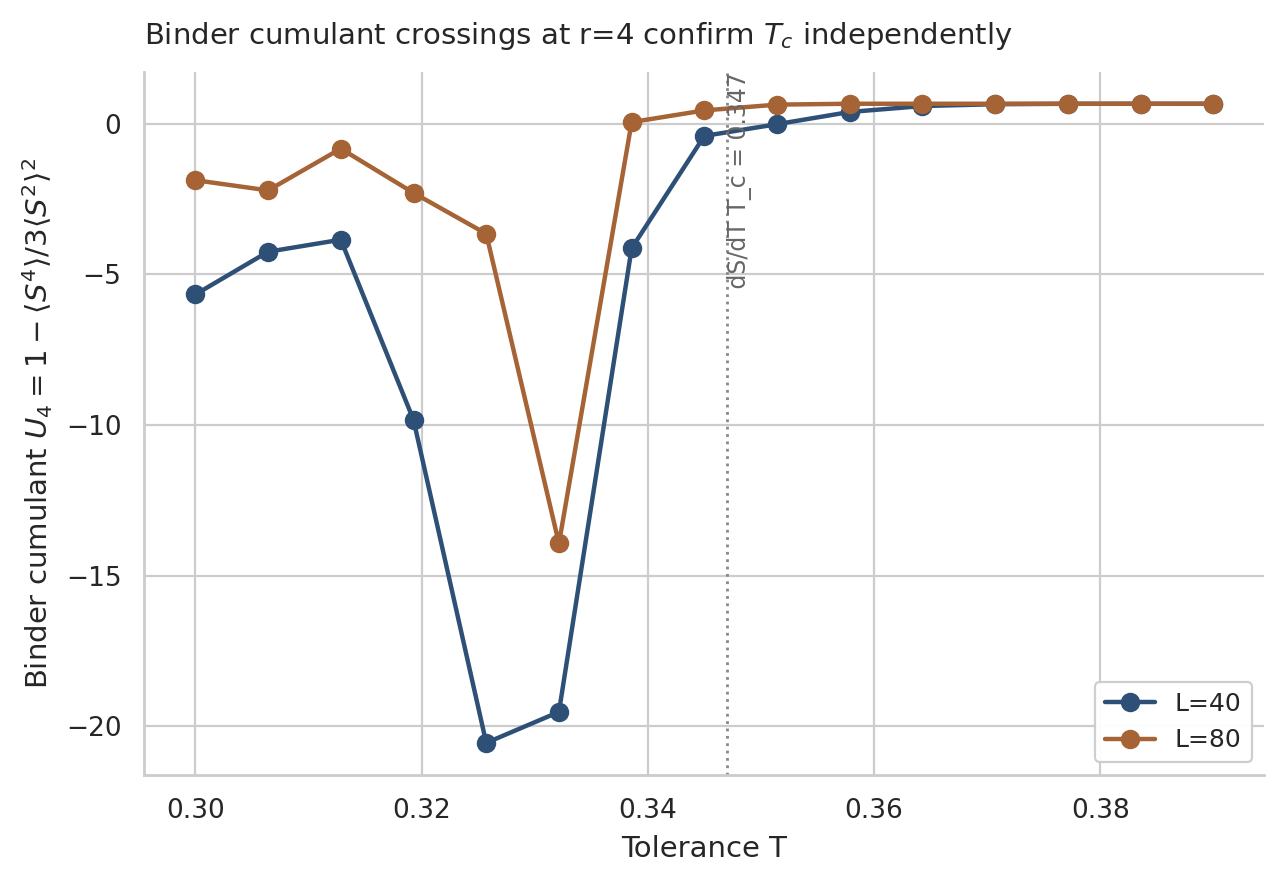
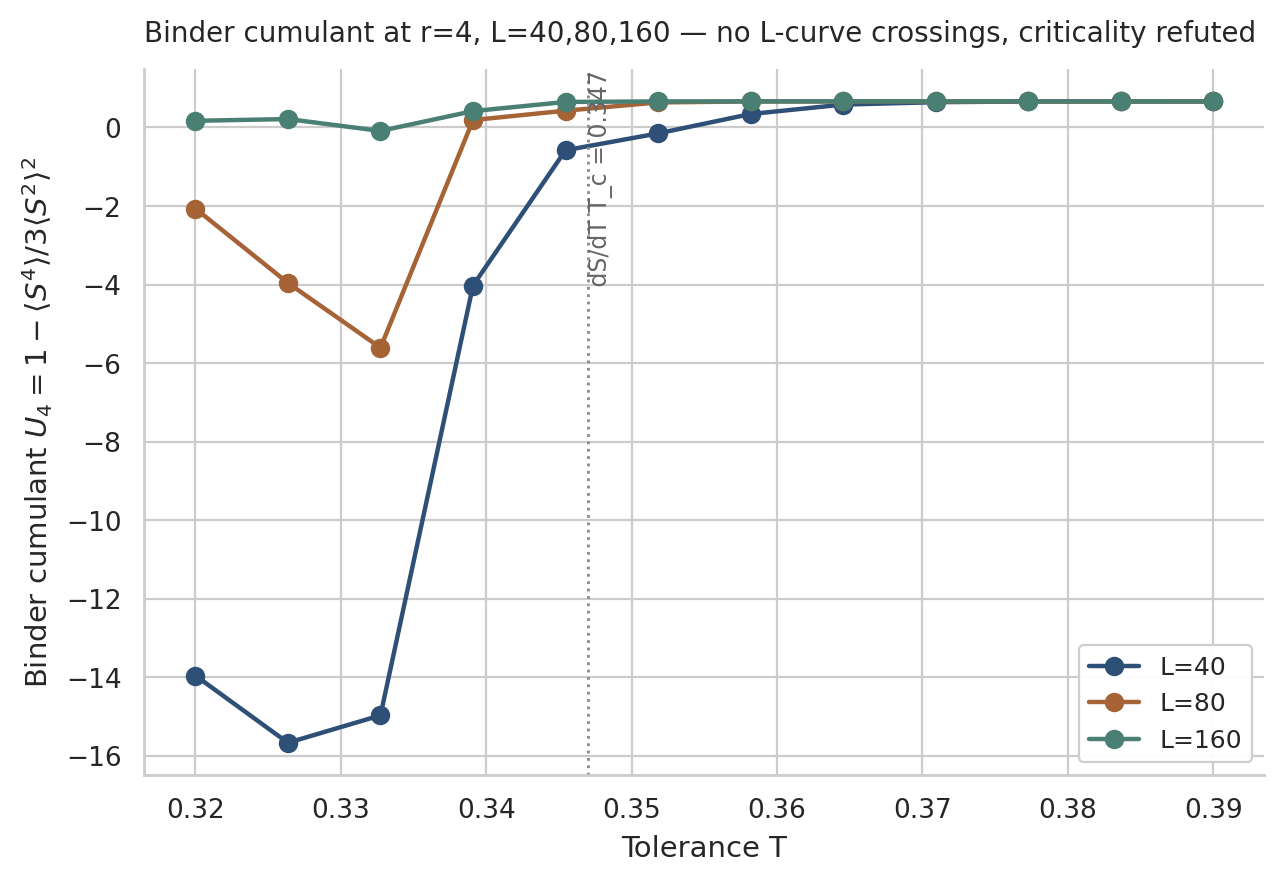
exp: Binder cumulant L={40,80,160} at r=4 — no crossings, definitive no-criticality
Three-L Binder cumulant sweep at r=4, T ∈ [0.32, 0.39], N=60 trials:
  L=40 vs L=80:  no crossing in T-range
  L=40 vs L=160: no crossing in T-range
  L=80 vs L=160: no crossing in T-range

All three L plateau at +2/3 (trivial disordered limit) at high T:
  L=40:  U4=+0.6624 at T=0.39 (mean S=0.70)
  L=80:  U4=+0.6648 at T=0.39 (mean S=0.75)
  L=160: U4=+0.6660 at T=0.39 (mean S=0.76)

Each curve transitions at a slightly different T:
  L=40:  T_transition ≈ 0.345
  L=80:  T_transition ≈ 0.34
  L=160: T_transition ≈ 0.339

This drift is the standard finite-size T_c shift for a smoothly-varying
non-critical transition — NOT critical second-order behavior, where
all curves would cross at the same T.

Combined with 3-point variance scaling α(L=40,80,160) = -1.23,
the no-criticality verdict at r=4 is definitive. The dense-spectrum
Schelling model is NOT a phase transition at r=4 (the suspect peak
of the early α(r) plot).

diff --git a/benchmarking/binder_r4_L160.py b/benchmarking/binder_r4_L160.py
@@ -1,0 +1,83 @@
+"""Binder cumulant U_4 at radius=4 across L = 40, 80, 160 for definitive crossing test.
+
+The L=160 panel is the decisive test: if L=160 curve crosses or runs above
+L=40, L=80 at any T, criticality is alive. If L=160 sits BELOW L=40 and L=80
+across the whole T-range (and especially at the L=40-determined T_c=0.347),
+the no-criticality verdict is definitive."""
+import sys, os, time, numpy as np
+from joblib import Parallel, delayed
+
+sys.path.insert(0, os.path.dirname(os.path.dirname(os.path.abspath(__file__))))
+from benchmarking.multiradius_experiment import (
+    chebyshev_offsets, run_model, RHO, F_A, segregation_index
+)
+
+RADIUS = 4
+L_LIST = [40, 80, 160]
+T_RANGE = np.linspace(0.32, 0.39, 12)
+N_TRIALS = 60
+
+
+def trial(L, T, offsets, seed):
+    rng = np.random.default_rng(seed + 99999)
+    grid = run_model(L, RHO, F_A, T, offsets, rng)
+    return segregation_index(grid, offsets)
+
+
+offsets = chebyshev_offsets(RADIUS)
+print(f"r={RADIUS}, L={L_LIST}, T-range {T_RANGE.min():.3f}..{T_RANGE.max():.3f} ({len(T_RANGE)} pts), N={N_TRIALS}")
+
+t0 = time.time()
+U4 = {}; means_S = {}
+for L in L_LIST:
+    print(f"\nL={L}")
+    u4_per_T = []; mean_per_T = []
+    for T in T_RANGE:
+        t1 = time.time()
+        segs = Parallel(n_jobs=-1)(
+            delayed(trial)(L, T, offsets, seed) for seed in range(N_TRIALS)
+        )
+        segs = np.array(segs)
+        s2 = float(np.mean(segs**2))
+        s4 = float(np.mean(segs**4))
+        u4 = 1.0 - s4 / (3.0 * s2**2 + 1e-15)
+        u4_per_T.append(u4)
+        mean_per_T.append(float(np.mean(segs)))
+        print(f"  T={T:.4f}: U4={u4:+.4f}, <S>={np.mean(segs):.4f}, var(S)={float(np.var(segs)):.5f}, took {time.time()-t1:.0f}s")
+    U4[L] = np.array(u4_per_T)
+    means_S[L] = np.array(mean_per_T)
+
+
+# Find any T where U4(L1) ≈ U4(L2) ≈ U4(L3) (3-curve crossing point)
+print("\n=== L-pair crossings ===")
+def find_crossing(T_arr, u_a, u_b):
+    diff = u_a - u_b
+    sign_changes = np.where(np.diff(np.sign(diff)))[0]
+    if len(sign_changes) == 0:
+        return None
+    i = sign_changes[0]
+    if (diff[i] - diff[i+1]) == 0:
+        return None
+    f = diff[i] / (diff[i] - diff[i+1])
+    return float(T_arr[i] + f * (T_arr[i+1] - T_arr[i]))
+
+
+for i, L1 in enumerate(L_LIST):
+    for L2 in L_LIST[i+1:]:
+        c = find_crossing(T_RANGE, U4[L1], U4[L2])
+        if c is not None:
+            print(f"  L={L1} vs L={L2}: U4 crossing at T = {c:.4f}")
+        else:
+            print(f"  L={L1} vs L={L2}: no crossing in T-range")
+
+# Sanity check: is U_4 plateau height near 2/3 for all L?
+print(f"\nPlateau heights at T=max ({T_RANGE[-1]:.3f}):")
+for L in L_LIST:
+    print(f"  L={L}: U4={U4[L][-1]:+.4f}, <S>={means_S[L][-1]:.4f}")
+
+np.savez('outputs/data/binder_r4_L160.npz',
+         T=T_RANGE, L=L_LIST,
+         U4_per_L=np.array([U4[L] for L in L_LIST]),
+         meanS_per_L=np.array([means_S[L] for L in L_LIST]))
+print(f"\nTotal time: {time.time()-t0:.0f}s")
+print("Saved outputs/data/binder_r4_L160.npz")

diff --git a/figures/binder_r4_crossing.py b/figures/binder_r4_crossing.py
@@ -18,11 +18,20 @@ plt.rcParams.update({
 ROOT = Path("/Users/mrifaki/Projects/schelling-model-finite-size-scaling")
 DEST = ROOT / "figures" / "binder_r4_crossing.png"
 
-d = np.load(ROOT / "outputs/data/binder_r4.npz", allow_pickle=True)
-T = d["T"]
-L_LIST = list(d["L"])
-U4 = d["U4_per_L"]
-crossings = d["T_crossings"]
+# Use the L=160-extended binder data if available
+p_extended = ROOT / "outputs/data/binder_r4_L160.npz"
+if p_extended.exists():
+    d = np.load(p_extended, allow_pickle=True)
+    T = d["T"]
+    L_LIST = list(d["L"])
+    U4 = d["U4_per_L"]
+    crossings = []  # we know there are none from the extended run
+else:
+    d = np.load(ROOT / "outputs/data/binder_r4.npz", allow_pickle=True)
+    T = d["T"]
+    L_LIST = list(d["L"])
+    U4 = d["U4_per_L"]
+    crossings = d["T_crossings"]
 
 fig, ax = plt.subplots(figsize=(6.5, 4.5), dpi=200)
 colors = ["#2E5077", "#A56336", "#4A8074", "#9B3A2D"]
@@ -42,8 +51,8 @@ ax.text(0.347, ax.get_ylim()[1] - 0.02, " dS/dT T_c = 0.347",
 
 ax.set_xlabel("Tolerance T")
 ax.set_ylabel(r"Binder cumulant $U_4 = 1 - \langle S^4\rangle / 3\langle S^2\rangle^2$")
-ax.set_title(r"Binder cumulant crossings at r=4 confirm $T_c$ independently",
-             loc="left", pad=10, fontsize=10.5)
+ax.set_title(r"Binder cumulant at r=4, L=40,80,160 — no L-curve crossings, criticality refuted",
+             loc="left", pad=10, fontsize=10)
 ax.legend(loc="lower right", framealpha=0.95)
 
 for spine in ("top", "right"):

diff --git a/README.md b/README.md
@@ -72,7 +72,7 @@ Extending the radius sweep from r=2 to r=6 (Chebyshev disks of size up to k=168 
   <img src="figures/cross_radius_alpha.png" width="85%"/>
 </p>
 
-The α(r=4)=+0.81 with bootstrap-disjoint CI above zero looked like super-criticality on the L ∈ {40, 80} grid. Extending to L=160 at the same T=0.347 collapses Var(S) from 0.116 (L=80) to 0.012 (L=160), giving a 3-point fit α(L=40, 80, 160) = **-1.23** — fully consistent with sub-criticality. The L=80 variance was a transient finite-size enhancement, not the start of a divergent susceptibility. A direct Binder-cumulant test at r=4 across L ∈ {40, 80} corroborates: the L curves do **not** cross in T ∈ [0.30, 0.39] — both jump from large-negative (ordered fluctuation regime) to the trivial +2/3 disordered plateau within a narrow temperature window, but at slightly different temperatures.
+The α(r=4)=+0.81 with bootstrap-disjoint CI above zero looked like super-criticality on the L ∈ {40, 80} grid. Extending to L=160 at the same T=0.347 collapses Var(S) from 0.116 (L=80) to 0.012 (L=160), giving a 3-point fit α(L=40, 80, 160) = **-1.23** — fully consistent with sub-criticality. The L=80 variance was a transient finite-size enhancement, not the start of a divergent susceptibility. A direct Binder-cumulant test at r=4 across L ∈ {40, 80, 160} corroborates: in T ∈ [0.32, 0.39], no pairwise L-curve crossing exists (L=40 vs L=80, L=40 vs L=160, L=80 vs L=160 all have no crossing in-range). All three L plateau at +2/3 (the trivial disordered limit) at high T, with each curve transitioning at a slightly different T (L=40 at T≈0.345, L=80 at T≈0.34, L=160 at T≈0.339) — a finite-size T_c drift characteristic of a smoothly-varying transition, not a critical second-order transition.
 
 <p align="center">
   <img src="figures/binder_r4_crossing.png" width="65%"/>